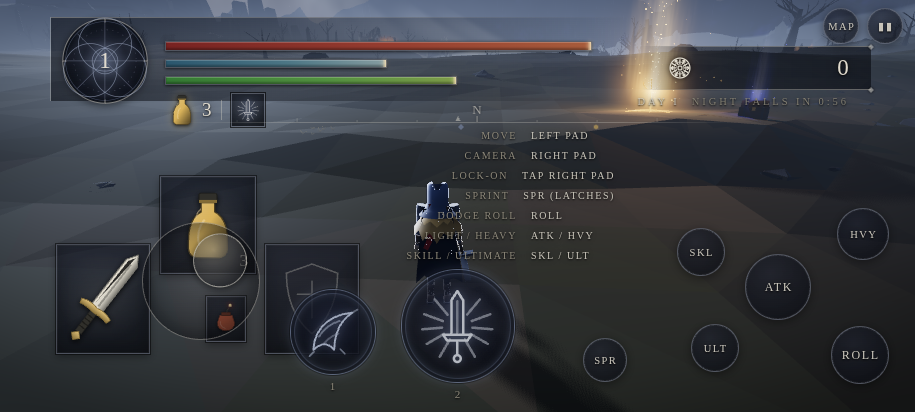
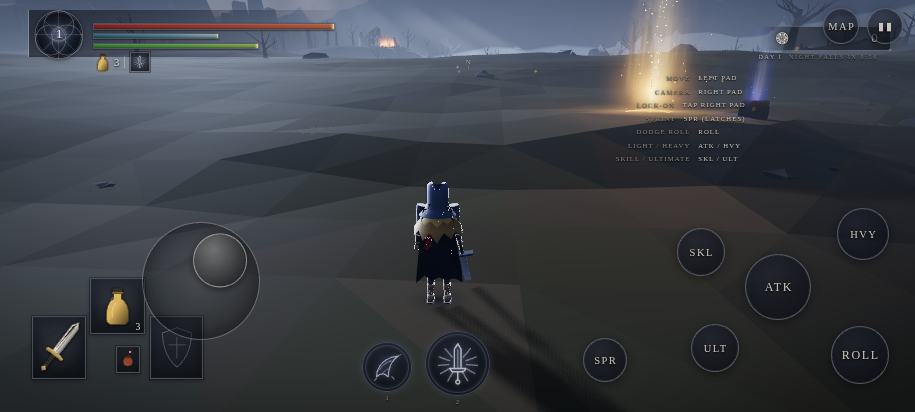
Portrait orientation for the Android build
- AndroidManifest: sensorPortrait
- Touch overlay: own root (unaffected by HUD scaling), per-orientation
  layout tables applied on build/resize; portrait button arc keeps clear
  of the bottom-centre art circles
- HUD: uniform zoom (min(1, w/730, h/730)) so the 1080p-proportioned
  layout fits phone screens; reticle projection compensated; 1920x1080
  captures stay pixel-identical
- Menus: responsive single-column panels under 730px; touch taps preview
  a Nightfarer first, second tap starts
- touch-smoke: suite now runs portrait + landscape (34 checks, DOM-derived
  button coordinates); desktop smoke still 27/27

Claude-Session: https://claude.ai/code/session_017ebmHx5fUNobH2EJEXTL94

diff --git a/src/core/Touch.js b/src/core/Touch.js
@@ -1,11 +1,13 @@
 /**
- * Touch controls for phones/tablets (the Android build): a dynamic virtual stick on the left half,
- * a camera-look pad on the right half (a quick tap toggles lock-on), and labelled action buttons —
- * all feeding the same named actions keyboard/mouse produce in Input, so Player/Camera/Menus need
- * no changes. Dormant until a touch device is detected: a coarse, no-hover primary pointer at boot
- * (phones, the Capacitor WebView) or the first real touchstart on a hybrid. The overlay lives
- * inside #hud so it appears only while the HUD does (expeditions) and sits under #menu, keeping
- * DOM menus tappable above it. Cancelling pointerdown suppresses the browser's compatibility mouse
+ * Touch controls for phones/tablets (the Android build, portrait-first): a dynamic virtual stick,
+ * a camera-look pad (a quick tap toggles lock-on), and labelled action buttons — all feeding the
+ * same named actions keyboard/mouse produce in Input, so Player/Camera/Menus need no changes.
+ * Dormant until a touch device is detected: a coarse, no-hover primary pointer at boot (phones,
+ * the Capacitor WebView) or the first real touchstart on a hybrid. The overlay lives in its own
+ * root between #hud and #menu — outside #hud so the phone-size HUD zoom never shrinks hit targets
+ * (visibility mirrors the HUD's each frame), under #menu so DOM menus stay tappable above it.
+ * Button placement comes from per-orientation tables (portrait screens are ~half as wide) and
+ * re-applies on resize. Cancelling pointerdown suppresses the browser's compatibility mouse
  * events, so taps never reach the canvas mousedown path (no stray attacks, no pointer-lock asks).
  */
 import { UI, FONT, TEXT_SHADOW, alpha, mix, shade } from '../ui/Theme.js';
@@ -15,14 +17,28 @@ const DEAD = 0.14;                  // stick dead zone (fraction of STICK_R)
 const LOOK_GAIN = 2.2;              // touch px -> equivalent mouse px for the orbit camera
 const TAP_MS = 220, TAP_PX = 12;    // look-pad tap thresholds (lock-on toggle)
 
+/** Button placement per orientation: [right, bottom|top, size] px; `pad` = left-pad width fraction. */
+const LAYOUT = {
+  landscape: {
+    pad: 0.44,
+    atk: [104, 92, 64], hvy: [26, 152, 50], roll: [26, 28, 56], skl: [190, 136, 46], ult: [176, 40, 46],
+    spr: [288, 30, 42], use: [140, 232, 46], pause: [12, 8, 34, 'top'], map: [56, 8, 34, 'top'],
+  },
+  portrait: {
+    pad: 0.5,
+    atk: [84, 96, 60], hvy: [16, 160, 48], roll: [16, 28, 54], skl: [92, 20, 44], ult: [150, 120, 44],
+    spr: [110, 190, 40], use: [24, 236, 44], pause: [8, 62, 32, 'top'], map: [48, 62, 32, 'top'],
+  },
+};
+
 const LINE = alpha(mix(UI.text, UI.fp, 0.3), 0.4);
 const GOLD_L = shade(UI.gold, 1.5);
 
 const CSS = `
-.t-ui { position: absolute; inset: 0; font-family: ${FONT}; }
+.t-ui { position: fixed; inset: 0; font-family: ${FONT}; pointer-events: none; }
 .t-pad { position: absolute; top: 0; bottom: 0; pointer-events: auto; touch-action: none; }
-.t-pad.l { left: 0; width: 44%; }
-.t-pad.r { left: 44%; right: 0; }
+.t-pad.l { left: 0; }
+.t-pad.r { right: 0; }
 .t-stick { position: absolute; width: ${STICK_R * 2}px; height: ${STICK_R * 2}px; margin: -${STICK_R}px 0 0 -${STICK_R}px; border-radius: 50%; border: 1px solid ${alpha(UI.text, 0.35)}; background: radial-gradient(circle, ${alpha(UI.text, 0.04)}, rgba(8,10,16,0.38)); box-shadow: inset 0 0 22px rgba(0,0,0,0.4); display: none; pointer-events: none; }
 .t-stick .nub { position: absolute; left: 50%; top: 50%; width: 52px; height: 52px; margin: -26px 0 0 -26px; border-radius: 50%; border: 1px solid ${alpha(UI.text, 0.55)}; background: radial-gradient(circle at 38% 30%, ${alpha(UI.text, 0.34)}, rgba(10,12,18,0.85)); box-shadow: 0 2px 8px rgba(0,0,0,0.55); }
 .t-btn { position: absolute; display: flex; align-items: center; justify-content: center; border-radius: 50%; border: 1px solid ${LINE}; background: radial-gradient(circle at 38% 30%, rgba(30,34,48,0.6), rgba(8,10,16,0.74)); color: ${alpha(UI.text, 0.92)}; font-size: 10.5px; letter-spacing: 0.14em; text-indent: 0.14em; text-transform: uppercase; text-shadow: ${TEXT_SHADOW}; box-shadow: 0 2px 10px rgba(0,0,0,0.45), inset 0 0 0 1px rgba(255,255,255,0.04); pointer-events: auto; touch-action: none; user-select: none; -webkit-user-select: none; -webkit-tap-highlight-color: transparent; }
@@ -39,6 +55,7 @@ export class Touch {
     this.look = { id: -1, x: 0, y: 0, t: 0, moved: 0 };
     this.sprintLatch = false;
     this._useShown = false;
+    this._shown = null;
     const coarse = matchMedia('(any-pointer: coarse)').matches && !matchMedia('(any-hover: hover)').matches;
     if (coarse) this.activate();
     else window.addEventListener('touchstart', () => this.activate(), { once: true, passive: true });
@@ -51,12 +68,14 @@ export class Touch {
     const hud = this.game.hud;
     this.game.input.noLock = true;
     const style = document.createElement('style'); style.textContent = CSS; document.head.appendChild(style);
-    this.build(document.getElementById('hud'));
+    this.build();
+    this.layout();
+    window.addEventListener('resize', () => this.layout());
     // touch-flavoured controls hint; the interact prompt drops its keyboard keycap (a button appears instead)
     hud.el.hint.innerHTML = 'move<b>left pad</b><br>camera<b>right pad</b><br>lock-on<b>tap right pad</b><br>sprint<b>spr (latches)</b><br>dodge roll<b>roll</b><br>light / heavy<b>atk / hvy</b><br>skill / ultimate<b>skl / ult</b>';
-    // on short screens the desktop hint spot (bottom-right) collides with the day/timer line and buttons
+    // the desktop hint spot (bottom-right) collides with the day/timer line and buttons on phones
     const hs = hud.el.hint.style;
-    hs.top = '126px'; hs.bottom = 'auto'; hs.right = '300px'; hs.fontSize = '10px';
+    hs.top = '126px'; hs.bottom = 'auto'; hs.right = '300px'; hs.fontSize = '12px';
     hud.el.promptK.style.display = 'none';
   }
 
@@ -65,13 +84,28 @@ export class Touch {
   /** setPointerCapture throws for pointers the browser isn't tracking (synthetic events) — never fatal. */
   static cap(el, e) { try { el.setPointerCapture(e.pointerId); } catch { /* fine: move/up still reach us */ } }
 
-  build(root) {
+  /** Apply the orientation's placement table to the pads and buttons (runs on build and resize). */
+  layout() {
+    const L = innerHeight > innerWidth ? LAYOUT.portrait : LAYOUT.landscape;
+    this.padL.style.width = `${L.pad * 100}%`;
+    this.padR.style.width = `${(1 - L.pad) * 100}%`;
+    for (const key in this.btns) {
+      const [right, y, size, anchor] = L[key], b = this.btns[key];
+      b.style.right = right + 'px';
+      if (anchor === 'top') { b.style.top = y + 'px'; b.style.bottom = ''; }
+      else { b.style.bottom = y + 'px'; b.style.top = ''; }
+      b.style.width = b.style.height = size + 'px';
+    }
+  }
+
+  build() {
     const ui = this.ui = document.createElement('div');
     ui.className = 't-ui';
-    root.appendChild(ui);
+    ui.style.display = 'none'; // update() mirrors the HUD's visibility
+    document.body.insertBefore(ui, document.getElementById('menu'));
 
     // ---- pads ------------------------------------------------------------------------------ move
-    const padL = document.createElement('div'); padL.className = 't-pad l'; ui.appendChild(padL);
+    const padL = this.padL = document.createElement('div'); padL.className = 't-pad l'; ui.appendChild(padL);
     const stick = this.stickEl = document.createElement('div'); stick.className = 't-stick'; stick.innerHTML = '<div class="nub"></div>'; ui.appendChild(stick);
     this.nub = stick.firstChild;
     const axis = this.game.input.touchAxis;
@@ -101,7 +135,7 @@ export class Touch {
     padL.addEventListener('pointerup', endStick); padL.addEventListener('pointercancel', endStick);
 
     // ---- look pad -------------------------------------------------------------------------- camera
-    const padR = document.createElement('div'); padR.className = 't-pad r'; ui.appendChild(padR);
+    const padR = this.padR = document.createElement('div'); padR.className = 't-pad r'; ui.appendChild(padR);
     padR.addEventListener('pointerdown', (e) => {
       e.preventDefault();
       if (this.look.id !== -1) return;
@@ -124,28 +158,26 @@ export class Touch {
     padR.addEventListener('pointerup', endLook); padR.addEventListener('pointercancel', endLook);
 
     // ---- buttons --------------------------------------------------------------------------- actions
-    // right-thumb cluster (right/bottom px): ATK centre, ROLL in the corner, HVY above, SKL/ULT/SPR on the arc
-    this.btn('atk', 'light', { right: 104, bottom: 92, size: 64, big: true });
-    this.btn('hvy', 'heavy', { right: 26, bottom: 152, size: 50 });
-    this.btn('roll', 'roll', { right: 26, bottom: 28, size: 56, big: true });
-    this.btn('skl', 'skill', { right: 190, bottom: 136, size: 46 });
-    this.btn('ult', 'ult', { right: 176, bottom: 40, size: 46 });
-    const spr = this.btn('spr', null, { right: 288, bottom: 30, size: 42 });
+    this.btns = {};
+    this.btn('atk', 'atk', 'light', true);
+    this.btn('hvy', 'hvy', 'heavy');
+    this.btn('roll', 'roll', 'roll', true);
+    this.btn('skl', 'skl', 'skill');
+    this.btn('ult', 'ult', 'ult');
+    const spr = this.btn('spr', 'spr', null);
     spr.addEventListener('pointerdown', (e) => { e.preventDefault(); e.stopPropagation(); this.setSprint(!this.sprintLatch); });
     this.sprBtn = spr;
-    this.useBtn = this.btn('use', 'interact', { right: 140, bottom: 232, size: 46 });
+    this.useBtn = this.btn('use', 'use', 'interact');
     this.useBtn.classList.add('t-use');
-    // top edge: pause + map, tucked above the rune band
-    this.btn('▮▮', 'pause', { right: 12, top: 8, size: 34 });
-    this.btn('map', 'map', { right: 56, top: 8, size: 34 });
+    this.btn('pause', '▮▮', 'pause');
+    this.btn('map', 'map', 'map');
   }
 
-  /** A round action button; `action` null = caller wires its own pointerdown (sprint latch). */
-  btn(label, action, { right, bottom, top, size, big }) {
+  /** A round action button (placed by layout()); `action` null = caller wires its own pointerdown. */
+  btn(key, label, action, big = false) {
     const b = document.createElement('div');
     b.className = 't-btn' + (big ? ' big' : '');
     b.textContent = label;
-    b.style.cssText = `right:${right}px; ${top !== undefined ? `top:${top}px` : `bottom:${bottom}px`}; width:${size}px; height:${size}px;`;
     if (action) {
       b.addEventListener('pointerdown', (e) => {
         e.preventDefault(); e.stopPropagation();
@@ -158,6 +190,7 @@ export class Touch {
       b.addEventListener('pointerup', (e) => e.preventDefault());
     }
     this.ui.appendChild(b);
+    this.btns[key] = b;
     return b;
   }
 
@@ -168,10 +201,12 @@ export class Touch {
     this.sprBtn.classList.toggle('on', on);
   }
 
-  /** Per-frame: show the interact button only while the HUD shows a prompt. */
+  /** Per-frame: mirror the HUD's visibility and show the interact button only while a prompt is up. */
   update() {
     if (!this.active) return;
-    const want = !!this.game.hud.last.prompt && this.game.state === 'EXPEDITION';
+    const vis = !!this.game.hud.visible;
+    if (vis !== this._shown) { this._shown = vis; this.ui.style.display = vis ? '' : 'none'; }
+    const want = vis && !!this.game.hud.last.prompt && this.game.state === 'EXPEDITION';
     if (want !== this._useShown) { this._useShown = want; this.useBtn.style.display = want ? 'flex' : 'none'; }
   }
 }

diff --git a/src/ui/Menus.js b/src/ui/Menus.js
@@ -29,6 +29,17 @@ const CSS = BASE_CSS + `
 .m-small { font-size: 12px; letter-spacing: 0.18em; color: ${UI.dim}; text-align: center; margin-top: 16px; text-transform: uppercase; }
 .m-quality { display: flex; gap: 6px; justify-content: center; margin: 8px 0; }
 .m-quality .m-btn { width: auto; font-size: 13px; padding: 6px 14px; }
+/* phone-sized screens (portrait especially): single column, panel fits the viewport and scrolls */
+@media (max-width: 730px), (max-height: 500px) {
+  .m-panel { min-width: 0; max-width: 92vw; max-height: 88vh; overflow-y: auto; box-sizing: border-box; padding: 20px 22px; }
+  .m-h1 { font-size: 22px; }
+  .m-h2 { margin-bottom: 14px; }
+  .m-hub { grid-template-columns: 1fr; gap: 14px; }
+  .m-btn { font-size: 14px; padding: 8px 12px; }
+  .m-list .m-btn { font-size: 14px; padding: 6px 12px; }
+  .m-desc { min-height: 0; }
+  .m-death .t { font-size: 52px; }
+}
 `;
 
 export class Menus {
@@ -93,7 +104,15 @@ export class Menus {
       s.querySelector('#m-nfstats').innerHTML = `<div class="m-row">Vigour <b>${n.hp}</b></div><div class="m-row">Mind <b>${n.fp}</b></div><div class="m-row">Endurance <b>${n.stamina}</b></div><div class="m-row">Weapon <b>${n.weapon}</b></div>`;
     };
     show(0);
-    s.querySelectorAll('.m-list .m-btn').forEach((b) => { b.addEventListener('mouseenter', () => show(+b.dataset.i)); b.addEventListener('click', () => { show(+b.dataset.i); onPick(list[sel]); }); });
+    // touch mode: first tap on a name previews it, a second tap (or Begin) starts — no hover exists
+    s.querySelectorAll('.m-list .m-btn').forEach((b) => {
+      b.addEventListener('mouseenter', () => show(+b.dataset.i));
+      b.addEventListener('click', () => {
+        const i = +b.dataset.i;
+        if (this.game.touch && this.game.touch.active && sel !== i) { show(i); return; }
+        show(i); onPick(list[sel]);
+      });
+    });
     s.querySelector('#m-begin').addEventListener('click', () => onPick(list[sel]));
     this._keys = (e) => {
       if (this.open !== 'hub') return;

diff --git a/src/ui/HUD.js b/src/ui/HUD.js
@@ -220,6 +220,13 @@ export class HUD {
     this.game = game;
     const root = this.root = document.getElementById('hud');
     const style = document.createElement('style'); style.textContent = BASE_CSS + CSS; document.head.appendChild(style);
+    // The layout is proportioned for 1920×1080; on phone-sized screens (either dimension < 730px —
+    // portrait especially) scale the whole HUD uniformly so bands/bars/map fit. 1920×1080 stays at
+    // zoom 1, so the capture/critic pipeline is pixel-identical. Screen-projected placements
+    // (the reticle) divide by `zoom` to stay put.
+    this.zoom = 1;
+    const fit = () => { this.zoom = Math.min(1, innerWidth / 730, innerHeight / 730); root.style.zoom = this.zoom; };
+    fit(); window.addEventListener('resize', fit);
     root.innerHTML = DEFS + `
       <div class="h-tl"></div>
       <div class="h-lvl">${svg('roundel', '0 0 96 96')}<div class="v">1</div></div>
@@ -426,7 +433,7 @@ export class HUD {
 
       const vis = _v.z < 1;
       E.reticle.style.display = vis ? 'block' : 'none';
-      if (vis) E.reticle.style.transform = `translate(${((_v.x + 1) / 2 * innerWidth) | 0}px, ${((1 - _v.y) / 2 * innerHeight) | 0}px)`;
+      if (vis) E.reticle.style.transform = `translate(${((_v.x + 1) / 2 * innerWidth / this.zoom) | 0}px, ${((1 - _v.y) / 2 * innerHeight / this.zoom) | 0}px)`;
       L.ret = true;
     } else if (L.ret) { E.reticle.style.display = 'none'; L.ret = false; }
     // compass (10 Hz, skipped while hidden)

diff --git a/README.md b/README.md
@@ -15,7 +15,7 @@ Controls: **WASD** move · **Shift** sprint · **Space** roll (i-frames) · **LM
 
 ## Android
 
-The game ships as a native Android app via [Capacitor](https://capacitorjs.com) (`android/` is the checked-in project). On any touch device — the Android build or a phone browser — a touch control overlay activates automatically: a dynamic virtual stick on the left half, a camera pad on the right half (**tap** it to toggle lock-on), and labelled buttons for attack/heavy/roll/skill/ultimate, a latching sprint toggle, a contextual interact button, plus map and pause. The Android shell runs landscape-only, immersive fullscreen, keep-screen-on; the hardware back button closes the map → pauses → backgrounds the app (never kills a run).
+The game ships as a native Android app via [Capacitor](https://capacitorjs.com) (`android/` is the checked-in project). On any touch device — the Android build or a phone browser — a touch control overlay activates automatically: a dynamic virtual stick on the left half, a camera pad on the right half (**tap** it to toggle lock-on), and labelled buttons for attack/heavy/roll/skill/ultimate, a latching sprint toggle, a contextual interact button, plus map and pause. Button placement adapts per orientation, and on phone-sized screens the HUD and menus scale to fit. The Android shell runs **portrait**, immersive fullscreen, keep-screen-on; the hardware back button closes the map → pauses → backgrounds the app (never kills a run).
 
 Build the APK (needs JDK 21 + the Android SDK, `compileSdk` 36 / `minSdk` 24 — or just open `android/` in Android Studio):
 
@@ -25,7 +25,7 @@ npm run android:apk       # vite build + cap sync + gradlew assembleDebug
 # → android/app/build/outputs/apk/debug/app-debug.apk
 ```
 
-`npm run android:sync` rebuilds the web bundle into the Android project without compiling. `node tools/touch-smoke.mjs` runs 17 end-to-end checks over the touch input path (dev server on :5173).
+`npm run android:sync` rebuilds the web bundle into the Android project without compiling. `node tools/touch-smoke.mjs` runs 34 end-to-end checks over the touch input path, in portrait and landscape (dev server on :5173).
 
 Performance: **~270 fps uncapped at 1920×1080** on an M-series GPU (measured with `tools/fps-probe.mjs` in headed Chromium), against a 60 fps target.
 

diff --git a/CHANGELOG.md b/CHANGELOG.md
@@ -3,6 +3,14 @@
 One line per module: what exists, and any known stubs. Folder ownership per ARCHITECTURE.md; the
 skeleton build touched every folder once — later builders own their folders from here.
 
+## Android conversion — portrait orientation (2026-08-28)
+
+- `android/.../AndroidManifest.xml` — `sensorPortrait` (was `sensorLandscape`).
+- `core/Touch.js` — overlay moved to its own root between `#hud` and `#menu` (outside `#hud` so the phone-size HUD zoom never shrinks hit targets; visibility mirrors `hud.visible` each frame); button/pad placement now comes from per-orientation tables (`LAYOUT.portrait` / `.landscape`) applied by `layout()` on build and resize — portrait puts the stick on the left half (50/50 pad split) with the ATK/HVY/ROLL/SKL/ULT/SPR arc up the right edge, clear of the bottom-centre art circles.
+- `ui/HUD.js` — phone fit: uniform `zoom = min(1, w/730, h/730)` on `#hud` so the 1920×1080-proportioned layout (580 px bar band, 720 px map) fits phone screens in either orientation; 1920×1080 stays at zoom 1 so the capture/critic pipeline is pixel-identical; the reticle's screen-projected transform divides by `zoom`.
+- `ui/Menus.js` — responsive panels below 730 px width (or 500 px height): single-column hub grid, `min-width` dropped, panel capped at 92vw/88vh with scroll, smaller type, `YOU DIED` at 52 px. In touch mode a first tap on a hub list name previews it and a second tap (or Begin) starts — no hover exists on phones.
+- `tools/touch-smoke.mjs` — runs the full suite twice (412×915 portrait, 1280×720 landscape; 34 checks); button coordinates read from the live DOM so the orientation tables are what's exercised.
+
 ## Android conversion — Capacitor shell + touch controls (2026-08-28)
 
 ### core
